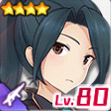
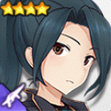
UPDATE charadata
・アナザー 山野 薫子の画像更新
・アナザー ニーナ追加
※アナザー ニーナの属性は検証待ち

diff --git a/alice.html b/alice.html
@@ -12,7 +12,7 @@
   <script>
 
 /* 更新情報 必要に応じて書き換えてください */
-  var version = "Ver 1.1.4 | UPDATE:2020/12/09";
+  var version = "Ver 1.1.4 | UPDATE:2020/12/28";
 
 /*
   jsonファイルを外部に設置すると単にHTMLファイルを開いたときに動作しなくなるので当面はHTMLファイル内に
@@ -848,6 +848,20 @@
       "attr": "4",
       "link": "https://wikiwiki.jp/alicegear/%E3%83%8B%E3%83%BC%E3%83%8A%E3%83%BB%E3%82%AB%E3%83%AA%E3%83%BC%E3%83%8B%E3%83%8A",
       "category": ""
+    },
+    {
+      "id": "29",
+      "type": "1",
+      "src": "another-nina.png",
+      "name": "ニーナ・カリーニナ / 破軍",
+      "equip1": "2",
+      "equip2": "4/4",
+      "equip3": "2",
+      "equip4": "4/4?",
+      "sp": "45?",
+      "attr": "4",
+      "link": "https://wikiwiki.jp/alicegear/%E3%83%8B%E3%83%BC%E3%83%8A%E3%83%BB%E3%82%AB%E3%83%AA%E3%83%BC%E3%83%8B%E3%83%8A%E7%A0%B4%E8%BB%8D",
+      "category": "10"
     },
     {
       "id": "30",
